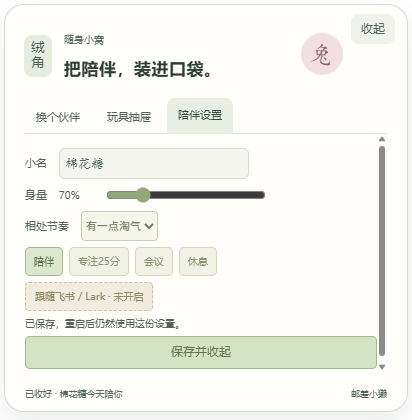
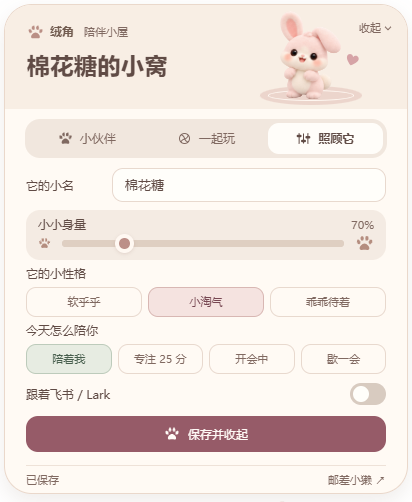
Redesign desktop nest as a soft plush nursery

diff --git a/ui/desktop-nest.css b/ui/desktop-nest.css
@@ -1,18 +1,49 @@
-:root{--nest-paper:#fffdf7;--nest-ink:#354b49;--nest-mint:#bfd8c8;--nest-pink:#d79e94;--desktop-size:.60}html,body{background:transparent!important;width:440px;height:650px;overflow:hidden;margin:0;color:var(--nest-ink);font-family:"Microsoft YaHei UI",sans-serif}.app-header,.page-intro,footer,.mobile-actions,.theater-top,.pet-shadow,.stage-orbit,.touch-hint{display:none!important}main{padding:0;margin:0;max-width:none}.experience{display:block}.theater{position:absolute;inset:0;width:440px;height:650px;border-radius:0;background:transparent!important;box-shadow:none;overflow:visible}.stage{position:absolute;inset:0;width:440px;height:650px;background:transparent}.pet-anchor{position:absolute;left:auto;right:36px;bottom:32px;width:174px;height:174px;transform:scale(var(--desktop-size));transform-origin:50% 100%}.pet,.pet-aim{width:100%;height:100%}.pet{filter:drop-shadow(0 3px 2px #23322e15);border-radius:30%;outline-offset:0!important}.portrait{mask-image:none}.art{overflow:hidden}.speech{left:auto;right:24px;top:auto;bottom:216px;transform:none;max-width:238px;padding:11px 15px;font-size:12px;line-height:1.75;border-radius:17px 17px 4px 17px;background:var(--nest-paper);border:1px solid #c4d1c5;box-shadow:3px 4px 0 #cbd9ce60;opacity:0;pointer-events:none;transition:opacity 140ms cubic-bezier(.22,1,.36,1);z-index:12}.speech::after{display:none}.desktop-nest[data-hint=true] .speech{opacity:1;pointer-events:auto}.sleep-mark{left:auto;right:29px;top:auto;bottom:166px;font-size:13px;letter-spacing:3px;color:#a6b9be}.effects{position:absolute;inset:auto 0 40px auto;width:224px;height:180px}.effect{width:14px;height:14px}.classic-art .pet-surface{width:100%;height:100%;border:0;background:none}.classic-art svg{width:100%;height:100%}#drag-tag{position:absolute;right:78px;bottom:10px;font-size:10px;line-height:1.4;padding:4px 11px;background:#fffdf5e8;border:1px dashed #c5d1bd;border-radius:4px 4px 9px 9px;letter-spacing:.5px;-webkit-app-region:drag;cursor:move;max-width:200px;overflow:hidden;text-overflow:ellipsis;white-space:nowrap}#nest-toggle{position:absolute;right:21px;bottom:9px;width:48px;height:37px;display:flex;align-items:center;justify-content:center;gap:3px;border-radius:6px 6px 13px 5px;border:1px solid #9eb8a8;background:#cfe1d0;box-shadow:2px 2px 0 #4b6b5412;font-size:10px;color:#3e6453;transform:rotate(-6deg);z-index:15}#nest-toggle:hover{transform:rotate(0) translateY(-2px)}#nest-toggle b{font-size:17px;font-weight:500}#nest-sheet{position:absolute;left:18px;right:18px;top:18px;height:408px;background:var(--nest-paper);border:1px solid #bdcbbb;border-radius:11px 11px 27px 11px;box-shadow:5px 6px 0 #a5beaa75,0 14px 26px #26372d13;z-index:20;overflow:visible;isolation:isolate}#nest-sheet::before{content:"";position:absolute;left:14px;right:14px;top:8px;bottom:8px;border:1px dashed #d4ddcf;border-radius:6px 6px 19px 6px;pointer-events:none;z-index:-1}.nest-cover{height:93px;padding:20px 19px 12px;display:flex;align-items:center;gap:12px;background:repeating-linear-gradient(0deg,transparent 0,transparent 5px,#99ac8e05 5px,#99ac8e05 6px)}.nest-mark{writing-mode:vertical-rl;border:1px solid #9ab29b;padding:6px 3px;border-radius:3px;color:#738d70;font-size:13px;letter-spacing:2px;background:#f0f1e5}.nest-cover small{font-size:10px;letter-spacing:3px;color:#8a9b80}.nest-cover h2{font-size:18px;letter-spacing:.5px;font-weight:600;margin:4px 0 0;font-family:"KaiTi","STKaiti","Microsoft YaHei UI",sans-serif}.nest-stamp{position:absolute;right:43px;top:28px;display:grid;place-items:center;width:42px;height:42px;border:2px double #bc8b82;border-radius:50%;transform:rotate(13deg);font-family:"KaiTi",serif;font-size:24px;color:#bc8b82;opacity:.9}.nest-stamp::after{content:"随身";font-family:inherit;font-size:8px;position:absolute;bottom:-7px;background:var(--nest-paper);padding:0 4px;letter-spacing:1px}.nest-cover>button{position:absolute;right:12px;top:9px;min-width:30px;height:30px;padding:0;border:0;background:none;color:#71866c;font-size:23px}.nest-tabs{display:flex;gap:5px;margin:0 20px;border-bottom:1px solid #b9cbb6;height:36px;align-items:end}.nest-tabs button{font-size:11px;min-height:33px;padding:6px 11px;background:#e7eddd;border:1px solid #c3d0ba;border-bottom:0;border-radius:6px 6px 0 0;color:#7b8e74;transform:translateY(1px)}.nest-tabs button:nth-child(2){background:#f1e4cf;color:#9a8362}.nest-tabs button:nth-child(3){background:#efded6;color:#9c7b72}.nest-tabs button[aria-selected=true]{background:var(--nest-paper);color:var(--nest-ink);padding-bottom:8px;min-height:36px}.nest-tabs button:active{transform:translateY(1px)}#nest-body{height:238px;margin:0 20px;overflow-y:auto;scrollbar-width:thin;padding:12px 0 5px}.friends{padding:0;width:100%}.friends-title,.picker-hint{display:none}.cast{display:grid!important;grid-template-columns:repeat(6,minmax(0,1fr));gap:7px 3px;overflow:visible;padding:0}.friend{border:0;background:none;padding:4px 2px 5px;min-width:0;border-radius:7px;position:relative;gap:2px}.friend:nth-child(2n){transform:rotate(2deg)}.friend:nth-child(3n){transform:rotate(-2deg)}.friend::before{content:"";position:absolute;top:0;left:3px;right:3px;bottom:0;background:#f6f2e5;border:1px solid #d7decb;box-shadow:1px 2px 0 #c9d2ba3b;z-index:-1;border-radius:7px 7px 3px 3px}.friend[aria-pressed=true]{box-shadow:none;background:none;border:0;transform:translateY(-3px) rotate(-3deg)}.friend[aria-pressed=true]::before{background:#e2eddc;border-color:#8da47c}.friend[aria-pressed=true]::after{right:4px;top:2px;width:4px;height:4px;background:#bd9284}.friend .thumb{width:40px;height:40px;mask-image:none}.friend b{font-size:10px;font-weight:500}.friend small{display:none}.companion-panel{display:block;width:100%;padding:10px 0 0;border-top:1px dashed #ced7c4;margin-top:10px}.companion-panel .species,.companion-panel>.personality,.memory,.details-toggle,#design-details{display:none!important}.companion-panel h2{font-size:16px;display:inline;line-height:1.5;font-family:"KaiTi","STKaiti",sans-serif;letter-spacing:.5px}.companion-panel>.trait{font-size:10px;margin:0 0 9px 8px;display:inline;color:#8a977c}.actions{display:flex;flex-direction:row;gap:6px;margin-top:8px}.actions button{flex:1;min-width:0;min-height:42px;border-radius:6px;padding:6px 3px;font-size:10px;gap:4px;display:flex;flex-direction:column;justify-content:center;align-items:center;text-align:center;background:#fffdf7;border:1px solid #d7ddca;box-shadow:none;color:#546b52}.actions button svg{width:16px;height:16px;color:#91a17e}.actions .primary{background:#e2eddb;border:1px solid #b6c9a7;color:#486143;box-shadow:0 2px 0 #c5d2b6}.actions .primary svg{color:#6f8b61}.nest-foot{position:absolute;left:20px;right:20px;bottom:10px;border-top:1px dashed #d5dec9;padding-top:7px;display:flex;justify-content:space-between;gap:8px;font-size:9px;color:#91a184}.nest-foot button{background:none;border:0;color:#8c9d7d;font-size:9px;padding:0}.play-tray{margin:0;min-height:0;padding:4px 0;background:none;border:0;border-radius:0}.tray-empty{grid-template-columns:42px 1fr;min-height:122px}.tray-icon{border-radius:7px;border:1px dashed #b5c6a9;background:#eef1e4;color:#92a47e}.tray-empty p,.game-instruction{font-size:11px;color:#809174}.tray-empty button{color:#789464;font-size:12px}.game-heading b{font-size:12px}.game-area{min-height:74px;margin-top:12px}.toy-button{background:#fcfbf3;border:1px solid #cbd8bb;border-radius:9px;box-shadow:2px 3px 0 #d5dfc4;color:#82976e}.toy-wide{min-height:45px;font-size:12px}.toy-button:hover{background:#eef1e3}.game-help{font-size:10px;color:#98a88a}.step-dot.done{background:#91a47c}.game-range{accent-color:#8ba074}.game-complete{display:flex;flex-direction:column;align-items:center;justify-content:center;min-height:157px}.game-complete button{background:#bacda5;border-radius:7px;color:#4b6342}.game-complete p{font-size:12px;text-align:center;color:#718869}#native-settings{padding:2px 0;font-size:11px}#native-settings label{display:flex;align-items:center;gap:12px;margin:0 0 10px;color:#809171}#native-name{width:190px;height:31px;border:0;border-bottom:1px solid #c7d3b9;background:repeating-linear-gradient(90deg,#eef1e4 0,#eef1e4 1px,transparent 1px,transparent 22px);padding:5px;color:#4c6348;font:13px "KaiTi",sans-serif}#native-personality{min-height:30px;border:1px solid #c5d0b8;background:#f7f6eb;border-radius:4px;color:#6c805e;font-size:11px}#native-size{width:160px;accent-color:#90a878}#native-size-label{font-size:10px;width:33px}.work-tabs{display:flex;gap:6px;margin:10px 0}.work-tabs button{min-height:29px;background:#f1f1e5;border:1px solid #d1d8bd;border-radius:5px;font-size:10px;color:#849470;padding:5px 8px}.work-tabs button[aria-pressed=true]{background:#dce7cd;border-color:#a2b98e;color:#557247}#native-follow{font-size:10px;padding:5px 9px;background:#f2ece0;border:1px dashed #ccbd9e;color:#968565;border-radius:4px}#native-save{display:block;margin-top:8px;min-height:33px;border:1px solid #a2b88d;background:#d4e3c3;color:#5b754d;border-radius:5px;font-size:12px;width:100%}#native-status{font-size:10px;color:#94a285;margin:5px 0;line-height:1.5}#nest-toggle:focus-visible,#nest-close:focus-visible,.friend:focus-visible{outline:2px solid #819b71;outline-offset:3px}body.desktop-preview{background:radial-gradient(circle at 80% 88%,#d8e4da 0,transparent 38%),repeating-linear-gradient(0deg,#e8ece6 0,#e8ece6 1px,#edf0e9 1px,#edf0e9 32px)!important}.desktop-preview::before{content:"这是桌面小窝的实尺寸预览";position:absolute;top:7px;left:20px;font-size:10px;color:#9ba991}.desktop-preview .theater{position:absolute}body[data-drawer=toys] #nest-sheet .companion-panel{display:none}body[data-drawer=friends] #nest-sheet .play-tray{display:none}@media(prefers-reduced-motion:reduce){*,*::before,*::after{animation:none!important;transition:none!important}}
+/* MofuCorner — a small nursery for a real plush companion.
+   Fixed native canvas: 440 × 650. Sheet: 404 wide; inner grid: 360 = 4×84 + 3×8. */
+:root{--nest-paper:#fffaf4;--nest-ink:#604b45;--nest-muted:#806961;--nest-line:#e8d9ce;--nest-soft:#f7eee6;--nest-pink:#f3dedc;--nest-rose:#965b68;--nest-green:#5d7663;--desktop-size:.60;--nest-font:"Microsoft YaHei UI","PingFang SC",sans-serif}
+body{position:relative}html,body{background:transparent!important;width:440px;height:650px;overflow:hidden;margin:0;color:var(--nest-ink);font-family:var(--nest-font)}
+.desktop-nest *{box-sizing:border-box}.desktop-nest [hidden]{display:none!important}
+.app-header,.page-intro,footer,.mobile-actions,.theater-top,.pet-shadow,.stage-orbit,.touch-hint{display:none!important}
+main{padding:0;margin:0;max-width:none}.experience{display:block}.theater{position:absolute;inset:0;width:440px;height:650px;border-radius:0;background:transparent!important;box-shadow:none;overflow:visible}.stage{position:absolute;inset:0;width:440px;height:650px;background:transparent}
+.pet-anchor{position:absolute;left:auto;right:36px;bottom:32px;width:174px;height:174px;transform:scale(var(--desktop-size));transform-origin:50% 100%}.pet,.pet-aim{width:100%;height:100%}.pet{filter:drop-shadow(0 3px 2px #604b4512);border-radius:30%;outline-offset:0!important}.pet:focus:not(:focus-visible){outline:none}.portrait{mask-image:none}.art{overflow:hidden}.desktop-nest .rig-puppet{overflow:visible}.desktop-nest .art img{filter:url(#desktop-alpha-clean)}.classic-art .pet-surface{width:100%;height:100%;border:0;background:none}.classic-art svg{width:100%;height:100%}
+.speech{position:absolute;left:auto;right:42px;top:auto;bottom:calc(42px + 174px * var(--desktop-size));width:120px;max-width:120px;max-height:96px;padding:7px 9px;font-size:11px;line-height:1.55;transform:none;border-radius:14px 14px 5px 14px;background:var(--nest-paper);border:1px solid var(--nest-line);box-shadow:0 3px 12px #604b4510;opacity:0;pointer-events:none;transition:opacity 140ms ease;z-index:12;overflow:hidden}.speech::after{display:none}.desktop-nest[data-hint=true] .speech{opacity:1;pointer-events:auto}.desktop-nest[data-dock=bottom] .speech{display:none}.sleep-mark{left:auto;right:29px;top:auto;bottom:166px;font-size:13px;color:var(--nest-muted)}.effects{position:absolute;inset:auto 0 40px auto;width:224px;height:180px}.effect{width:14px;height:14px}
+#drag-tag{position:absolute;right:84px;bottom:10px;width:100px;max-width:100px;padding:3px 6px;font-size:11px;line-height:1.4;background:var(--nest-paper);border:1px solid var(--nest-line);border-radius:9px;color:var(--nest-muted);-webkit-app-region:drag;cursor:move;overflow:hidden;text-overflow:ellipsis;white-space:nowrap}
+#nest-toggle{position:absolute;right:40px;bottom:10px;width:36px;height:30px;display:grid;place-items:center;border:1px solid #dec1bd;background:var(--nest-pink);color:var(--nest-ink);border-radius:11px;font-size:11px;transform:none;z-index:15;box-shadow:none}#nest-toggle b{display:none}#nest-toggle:hover{background:#ecd0ce;transform:none}
+/* The sheet floats; its shallow shadow separates it from other applications. */
+#nest-sheet{position:absolute;left:18px;right:18px;top:18px;height:490px;z-index:20;display:flex;flex-direction:column;background:var(--nest-paper);border:1px solid #ead8cb;border-radius:28px;box-shadow:0 8px 22px #6b4f391b;overflow:hidden;isolation:isolate}
+.nest-cover{height:104px;flex:none;position:relative;padding:17px 22px 10px;background:#f8eee4}
+.nest-heading{position:relative;z-index:1;max-width:232px;pointer-events:none}.nest-brand{display:flex;align-items:center;gap:6px;margin:0 0 8px;font-size:12px;font-weight:600;color:#725c50}.nest-brand span{font-size:11px;font-weight:400;margin-left:4px;color:var(--nest-muted)}.nest-brand svg{width:17px;height:17px;fill:#ba8f85;stroke:none}.nest-heading h1{margin:0;max-width:215px;font:700 23px/1.35 var(--nest-font);color:var(--nest-ink);letter-spacing:.5px;overflow:hidden;text-overflow:ellipsis;white-space:nowrap}.nest-heading>p:last-child{font-size:11px;line-height:1.6;margin:7px 0 0;color:var(--nest-muted)}
+#nest-close{position:absolute;right:12px;top:10px;padding:0 6px;display:flex;align-items:center;gap:2px;height:26px;background:transparent;border:0;border-radius:8px;color:var(--nest-muted);font:11px var(--nest-font);z-index:4}#nest-close svg{width:14px;height:14px;fill:none;stroke:currentColor;stroke-width:1.7;stroke-linecap:round;stroke-linejoin:round}#nest-close:hover{background:#eee0d4}
+.nest-baby{position:absolute;right:25px;bottom:4px;width:119px;height:91px;display:grid;place-items:center;border:0;background:transparent;padding:0;z-index:2;border-radius:24px;cursor:pointer}.baby-mat{position:absolute;bottom:0;width:102px;height:19px;border-radius:50%;background:#ecd5cc}.baby-mat::after{content:"";position:absolute;inset:4px 8px;border:1px solid #fff8f2;border-radius:50%}.baby-portrait{position:absolute;bottom:5px;max-height:89px;height:89px;max-width:105px;overflow:hidden;transition:transform 170ms ease;filter:url(#desktop-alpha-clean)}.nest-baby:hover .baby-portrait{transform:rotate(-4deg) translateY(-2px)}.nest-baby:active .baby-portrait{transform:translateY(1px)}.baby-heart{position:absolute;right:0;top:38px;transform:rotate(17deg)}.baby-heart svg{width:16px;height:16px;fill:#d6a3a6;stroke:none}.nest-symbols{position:absolute;pointer-events:none}
+.nest-tabs{flex:none;display:grid;grid-template-columns:repeat(3,1fr);gap:4px;padding:4px;margin:10px 20px 0;background:#f1e7de;border:0;border-radius:15px;height:39px}.nest-tabs button{display:flex;align-items:center;justify-content:center;gap:7px;border:0;border-radius:11px;background:transparent;font:12px var(--nest-font);color:var(--nest-muted);padding:0;min-height:31px;transform:none}.nest-tabs svg{width:15px;height:15px;fill:none;stroke:currentColor;stroke-width:1.6;stroke-linecap:round;stroke-linejoin:round}.nest-tabs button:first-child svg{fill:currentColor;stroke:none}.nest-tabs button[aria-selected=true]{background:#fffdf9;color:var(--nest-ink);box-shadow:none;font-weight:600}.nest-tabs button:hover{color:var(--nest-ink)}
+#nest-body{flex:1;min-height:0;margin:0 20px;padding:10px 1px 6px;overflow-x:hidden;overflow-y:auto;scrollbar-width:thin;scrollbar-color:#d5c2b6 transparent}#nest-body::-webkit-scrollbar{width:4px}#nest-body::-webkit-scrollbar-thumb{background:#d5c2b6;border-radius:9px}
+.nest-foot{flex:none;margin:0 21px;padding:7px 0 8px;display:flex;align-items:center;justify-content:space-between;gap:8px;color:var(--nest-muted);font-size:11px;min-height:28px;border-top:1px solid #eee2d8}.nest-foot>span{overflow:hidden;text-overflow:ellipsis;white-space:nowrap}.nest-foot button{background:none;border:0;color:var(--nest-muted);font:11px var(--nest-font);padding:0;white-space:nowrap}.nest-foot button:hover{color:var(--nest-rose)}
+/* Twelve actual pets, large enough to recognise; 4 × 3, never miniature postage stamps. */
+.friends{padding:0;width:100%}.friends-title,.picker-hint{display:none}.cast{display:grid!important;grid-template-columns:repeat(4,minmax(0,1fr));gap:8px;overflow:visible;padding:0}.friend,.friend:nth-child(2n),.friend:nth-child(3n){display:flex;flex-direction:column;align-items:center;gap:1px;min-width:0;padding:4px 2px 6px;background:#f7efe7;border:1px solid transparent;border-radius:16px;transform:none;box-shadow:none;isolation:isolate}.friend::before{display:none}.friend[aria-pressed=true]{background:#f7e5e2;border-color:#d9b5b3;box-shadow:none;transform:none}.friend[aria-pressed=true]::after{content:"";position:absolute;right:7px;top:8px;width:6px;height:6px;background:var(--nest-rose);border-radius:50%}.friend:hover{background:#f1e5dc}.friend .thumb{width:58px;height:55px;mask-image:none;display:block}.friend b{font-size:11px;line-height:1.4;color:var(--nest-ink);font-weight:500}.friend small{display:none}
+.companion-panel{display:block;width:100%;padding:13px 0 0;margin-top:10px;border-top:1px solid var(--nest-line);border-radius:0;background:none}.companion-panel .species,.companion-panel>.personality,.memory,.details-toggle,#design-details{display:none!important}.companion-panel h2{font:600 14px/1.5 var(--nest-font);display:inline;letter-spacing:0;color:var(--nest-ink)}.companion-panel>.trait{display:inline;font-size:11px;margin:0 0 0 8px;color:var(--nest-muted)}.actions{display:flex;gap:7px;margin-top:10px}.actions button{flex:1;display:flex;flex-direction:column;justify-content:center;align-items:center;gap:4px;min-width:0;min-height:45px;padding:7px 3px;border-radius:13px;font:11px var(--nest-font);text-align:center;background:#f5eee7;border:0;box-shadow:none;color:var(--nest-ink)}.actions button svg{width:18px;height:18px;color:var(--nest-rose)}.actions .primary{background:var(--nest-pink);color:#724650;border:0;box-shadow:none}.actions .primary svg{color:#965b68}.actions button:hover{background:#ecdcd4}
+/* Care controls fit in one view. Each setting remains a real form control. */
+#native-settings{padding:0;font:12px var(--nest-font);color:var(--nest-ink)}#native-settings label{color:var(--nest-ink);font-size:12px}.name-row{display:flex;align-items:center;gap:16px;margin-bottom:8px}.name-row label{white-space:nowrap;width:70px}#native-name{flex:1;width:0;height:34px;border:1px solid var(--nest-line);border-radius:11px;background:#fffefa;padding:0 12px;color:var(--nest-ink);font:13px var(--nest-font)}
+.size-setting{padding:7px 12px 5px;background:#f4ebe3;border-radius:14px;margin-bottom:6px}.setting-heading{display:flex;align-items:center;justify-content:space-between}.setting-heading output{font-size:11px;color:var(--nest-muted);font-variant-numeric:tabular-nums}.size-track{display:flex;align-items:center;gap:11px;height:23px}.size-paw{width:19px;height:19px;fill:#b48d7f;stroke:none}.size-paw.small{width:13px;height:13px}#native-size{--size-fill:6.66%;appearance:none;flex:1;min-width:0;margin:0;height:7px;border:0;border-radius:8px;background:#dfcfc2;outline-offset:8px}#native-size::-webkit-slider-runnable-track{height:7px;border-radius:8px;background:#dfcfc2}#native-size::-webkit-slider-thumb{appearance:none;width:19px;height:19px;margin-top:-6px;border:4px solid #fff8f2;border-radius:50%;background:#bc8f88;box-shadow:0 1px 4px #7c4e4533;cursor:grab}#native-size::-moz-range-thumb{width:12px;height:12px;border:4px solid #fff8f2;border-radius:50%;background:#bc8f88}
+#native-settings fieldset{border:0;min-width:0;padding:0;margin:0 0 6px}#native-settings legend{font-size:12px;padding:0;margin-bottom:6px;color:var(--nest-ink)}.personality-options,.work-tabs{display:flex;gap:6px}.personality-options button,.work-tabs button{flex:1;min-width:0;height:30px;border:1px solid var(--nest-line);border-radius:10px;background:transparent;color:var(--nest-muted);font:11px var(--nest-font);padding:0 6px;white-space:nowrap}.personality-options button[aria-pressed=true]{background:#f5e3e0;border-color:#d8b7b3;color:#774752}.work-tabs button[aria-pressed=true]{background:#e7ece2;border-color:#bdcbbb;color:#485f4e}.personality-options button:hover,.work-tabs button:hover{border-color:#b79889}
+.follow-setting{display:flex;justify-content:space-between;align-items:center;gap:10px;margin:3px 0 6px}.follow-setting>span{min-width:0}.follow-setting b{font-size:12px;font-weight:500}.follow-setting small{display:block;font-size:11px;line-height:1.45;color:var(--nest-muted);margin:3px 0 0;max-width:278px}#native-follow{flex:none;position:relative;width:36px;height:22px;border:0;border-radius:20px;background:#d8cbc0;padding:3px;cursor:pointer}#native-follow .switch-knob{display:block;width:16px;height:16px;border-radius:50%;background:#fffefa;transition:transform 160ms ease}#native-follow[aria-pressed=true]{background:var(--nest-green)}#native-follow[aria-pressed=true] .switch-knob{transform:translateX(14px)}#native-follow:disabled{cursor:not-allowed;background:#d8cbc0}
+#native-save{display:flex;align-items:center;justify-content:center;gap:8px;width:100%;min-height:36px;margin:0;border:0;border-radius:12px;background:var(--nest-rose);color:#fffaf6;font:12px var(--nest-font);box-shadow:none}#native-save svg{width:16px;height:16px;fill:currentColor;stroke:none}#native-save:hover{background:#844c5a}#native-save:disabled{background:#ead8d9;color:#765960;cursor:wait}
+/* The toy drawer keeps the same nursery materials. */
+.play-tray{margin:0;min-height:0;padding:4px 0;background:none;border:0;border-radius:0}.tray-empty{grid-template-columns:42px 1fr;min-height:115px}.tray-icon{border-radius:14px;border:0;background:#f5e7de;color:var(--nest-rose)}.tray-empty p,.game-instruction{font-size:12px;color:var(--nest-muted);line-height:1.6}.tray-empty button{color:var(--nest-rose);font-size:12px}.game-heading b{font-size:14px;color:var(--nest-ink)}.game-area{min-height:65px;margin-top:12px}.toy-button{background:#f5e9df;border:1px solid #e6d2c5;border-radius:16px;box-shadow:none;color:#886358}.toy-wide{min-height:45px;font-size:12px}.toy-button:hover{background:#f0ded2}.game-help{font-size:11px;color:var(--nest-muted)}.step-dot{background:#e6d8cd}.step-dot.done{background:#bc8c86}.game-range{accent-color:var(--nest-rose)}.game-complete{display:flex;flex-direction:column;align-items:center;justify-content:center;min-height:157px}.game-complete button{background:var(--nest-pink);border-radius:12px;color:#714650}.game-complete p{font-size:12px;text-align:center;color:var(--nest-muted)}.desktop-nest .motion-actions{padding:12px 0 2px;margin-top:12px;border-top:1px solid var(--nest-line);gap:6px;display:flex;flex-wrap:wrap}.desktop-nest .motion-actions>span{font-size:11px;width:100%;margin:0 0 2px;color:var(--nest-muted)}.desktop-nest .motion-actions button{min-height:32px;padding:5px 10px;background:#f5ece4;border:1px solid var(--nest-line);font-size:11px;border-radius:10px;color:var(--nest-ink)}
+.desktop-nest button{transition:background-color 150ms ease,border-color 150ms ease}.desktop-nest button:focus-visible,.desktop-nest input:focus-visible{outline:2px solid var(--nest-rose);outline-offset:3px}.desktop-nest button:active:not(#pet):not(#nest-baby){translate:0 1px}
+body.desktop-preview{background:#eee8e1!important}.desktop-preview::before{display:none}.desktop-preview .theater{position:absolute}
+@media(max-width:439px){body.desktop-preview,html:has(body.desktop-preview){width:100vw}.desktop-preview #nest-sheet{left:12px;right:12px}.desktop-preview .nest-heading{max-width:200px}.desktop-preview .nest-heading h1{font-size:21px;max-width:190px}.desktop-preview .nest-baby{right:17px;width:105px}.desktop-preview .nest-cover{padding-left:20px}.desktop-preview .nest-tabs,.desktop-preview #nest-body{margin-left:16px;margin-right:16px}}
+@media(prefers-reduced-motion:reduce){*,*::before,*::after{animation:none!important;transition:none!important}}
 
-/* Runtime alpha compositing suppresses almost-transparent generation fringe. */
-#native-settings label{margin-bottom:6px}.work-tabs{margin:6px 0}#native-save{margin-top:5px}#native-settings label,#native-status{color:#526657}
-.desktop-nest .art img{filter:url(#desktop-alpha-clean)}#nest-body{overflow-x:hidden}.desktop-nest .friend .thumb{width:34px;height:34px}.desktop-nest .friend b{line-height:1.35}.desktop-nest .friend{padding:3px 2px 4px}.desktop-nest .cast{gap:5px 3px}
+/* The header already names the selected pet, so the picker gives its space to play. */
+.companion-panel h2,.companion-panel>.trait{display:none}.companion-panel{padding:0;margin-top:10px;border:0}.actions{margin-top:0}
 
-.desktop-nest .motion-actions{padding:7px 0 1px;border-top:1px dashed #d0d9c3;gap:5px}.desktop-nest .motion-actions>span{font-size:9px;width:100%;margin:0}.desktop-nest .motion-actions button{min-height:28px;padding:4px 7px;background:#eef0e2;border-color:#c8d4b7;font-size:10px;border-radius:5px}.desktop-nest .rig-puppet{overflow:visible}.desktop-nest .play-tray:has(.game-area){padding-bottom:0}.desktop-nest .game-area{margin-top:4px;min-height:51px}
+html:has(body.desktop-preview){width:100%;height:100%;background:#eee8e1!important}body.desktop-preview{width:min(440px,100vw);margin:16px auto;position:relative}
 
-/* Compact companion; visible bounds are measured and docked outside the client. */
-#drag-tag{right:84px;width:100px;max-width:100px;padding:3px 6px;font-size:9px}
-#nest-toggle{right:40px;bottom:10px;width:36px;height:30px;transform:none;border-radius:9px;font-size:10px}#nest-toggle b{display:none}#nest-toggle:hover{transform:none}
-.desktop-nest .speech{right:42px;bottom:calc(42px + 174px * var(--desktop-size));width:120px;max-width:120px;max-height:96px;padding:7px 9px;font-size:10px;line-height:1.55;overflow:hidden}
-.desktop-nest[data-dock=bottom] .speech{display:none}
+/* All twelve portraits and three quick actions fit without a scroll at native size. */
+.actions{flex-direction:row}.friend .thumb{width:54px;height:46px}.friend,.friend:nth-child(2n),.friend:nth-child(3n){padding:3px 2px 4px}.actions button{min-height:42px;padding:4px 3px}.actions button svg{width:16px;height:16px}.companion-panel{margin-top:8px}.nest-baby{right:48px;width:96px}#nest-close{padding:0;gap:0}
 
-/* MofuCorner 0.6 — quiet paper surfaces, one sage action. */
-#nest-sheet{border-color:#d4ddd0;border-radius:20px;background:#fffefa;box-shadow:0 10px 28px #22332918}#nest-sheet::before{display:none}.nest-cover{background:none}.nest-cover h2{font-family:"Microsoft YaHei UI","PingFang SC",sans-serif;font-size:17px;color:#2c3e35}.nest-cover small{letter-spacing:0;color:#596b5c}.nest-mark{border:0;background:#e6ede0;border-radius:8px;color:#405d48}.nest-stamp{background:#f1dcdf;border:0;color:#77525e}.nest-stamp::after{display:none}.nest-tabs{border-color:#dce3d7}.nest-tabs button{background:transparent;border:0;border-radius:8px 8px 0 0;color:#526657}.nest-tabs button:nth-child(2),.nest-tabs button:nth-child(3){background:transparent;color:#526657}.nest-tabs button[aria-selected=true]{background:#e8efe2;color:#2c4d36}.friend,.friend:nth-child(2n),.friend:nth-child(3n),.friend[aria-pressed=true]{transform:none}.friend::before{box-shadow:none;background:#f1f3eb;border-color:transparent;border-radius:10px}.friend[aria-pressed=true]::before{background:#dfebd8;border-color:#adc3a2}.actions button,.toy-button{box-shadow:none;border-color:#d6dfd0;border-radius:10px}.actions .primary{background:#355846;border-color:#355846;color:white;box-shadow:none}.actions .primary svg{color:white}.nest-foot{border-top:0;color:#596b5c}.nest-foot button{color:#526657}#native-name{background:#f4f6ef;border:1px solid #d3dccd;border-radius:6px}.speech{box-shadow:0 3px 12px #23372c12}#drag-tag{border-style:solid;border-color:#d5dfce;background:#fffefa}
+/* Reserve a stable footer even when a save acknowledgement appears. */
+.nest-foot{height:28px;min-height:28px;padding:6px 0;line-height:14px}.follow-setting{min-height:28px;margin:4px 0 8px}.follow-setting small:empty{display:none}
+.state-badge,.friends-title span,#shape{font-size:11px}
 
-#nest-close{width:44px;font-size:12px;line-height:28px;border-radius:8px;background:#eef2e9;color:#526657}.nest-stamp{right:64px}#native-follow[aria-pressed=true]{background:#e5eedf;border-style:solid;border-color:#a6ba99;color:#45603e}.pet:focus:not(:focus-visible){outline:none}
+.game-help:empty{display:none}

diff --git a/ui/desktop.html b/ui/desktop.html
@@ -1,14 +1,41 @@
 <!doctype html><html lang="zh-CN"><head>
 <meta charset="utf-8"><meta name="viewport" content="width=device-width,initial-scale=1"><meta name="color-scheme" content="light">
-<title>绒角 · 随身小窝</title><link rel="stylesheet" href="zodiac.css?v=2"><link rel="stylesheet" href="desktop-nest.css?v=28"><script type="module" src="desktop-nest.mjs?v=28"></script>
+<title>绒角 · 随身小窝</title><link rel="stylesheet" href="zodiac.css?v=2"><link rel="stylesheet" href="desktop-nest.css?v=29"><script type="module" src="desktop-nest.mjs?v=29"></script>
 </head><body class="desktop-nest"><svg width="0" height="0" aria-hidden="true" style="position:absolute"><defs><filter id="desktop-alpha-clean" color-interpolation-filters="sRGB"><feComponentTransfer><feFuncA type="table" tableValues="0 0 .35 .7 1 1"/></feComponentTransfer></filter></defs></svg>
-<header class="app-header"><a class="brand" href="/">绒角 <span>MofuCorner</span></a><span class="header-label">十二生肖陪伴小剧场</span><nav><button id="motion-toggle" type="button" aria-pressed="true">小动作已开启</button><a href="/">回到桌宠小屋</a></nav></header>
-<main><div class="page-intro"><div><p class="intro-kicker">有一点脾气，也有很多可爱。</p><h1>今天，和谁待一会儿？</h1></div><p>摸摸它，陪它玩，或者一起放空。<br>每一个小伙伴，都会用自己的方式回应你。</p></div>
-<div class="experience">
+<button id="motion-toggle" type="button" aria-pressed="true" hidden>小动作已开启</button>
+<main><div class="experience">
 <aside class="friends"><div class="friends-title"><h2>小伙伴们</h2><span>十二只，都不一样</span></div><div id="cast" class="cast" role="group" aria-label="选择生肖小伙伴"></div><p class="picker-hint">用方向键，也可以换一位朋友。</p></aside>
 <section class="theater" aria-label="角色互动舞台"><div class="theater-top"><span id="scene-title"></span><span class="state-badge" id="state-badge">自在陪伴</span></div>
 <div class="stage" id="stage"><div class="stage-orbit" aria-hidden="true"></div><div class="speech" id="speech" role="status" aria-live="polite" aria-atomic="true"></div><div class="pet-anchor"><div class="pet-aim" id="pet-aim"><button id="pet" class="pet" type="button"><span id="portrait" class="portrait"></span></button></div></div><div class="pet-shadow" aria-hidden="true"></div><div id="effects" class="effects" aria-hidden="true"></div><div class="sleep-mark" aria-hidden="true">z z</div><p class="touch-hint" id="touch-hint"></p></div>
 <div class="mobile-actions" aria-label="快速互动"><button type="button" data-quick="touch">摸摸</button><button type="button" data-quick="play">陪它玩</button><button type="button" data-quick="rest">休息</button></div><div class="play-tray" id="play-tray"></div></section>
 <aside class="companion-panel"><span class="species" id="species"></span><h2 id="name"></h2><p class="trait" id="trait"></p><p class="personality" id="personality"></p><div class="actions" aria-label="和小伙伴互动"><button id="touch-action" type="button" class="primary"></button><button id="play-action" type="button"></button><button id="rest-action" type="button"></button></div><div class="memory"><div><span class="memory-icon" aria-hidden="true"></span><b>它记得的小事</b></div><p id="memory-text"></p><span class="memory-count" id="memory-count"></span></div><button id="details-toggle" class="details-toggle" type="button" aria-expanded="false" aria-controls="design-details">看看它的模样与配色 <span aria-hidden="true">＋</span></button><div id="design-details" hidden><p id="shape"></p><div id="palette" class="palette"></div></div></aside>
-</div><footer><p>十二生肖已接入桌面小窝，支持选择、连续动作与本机保存。</p><a href="assets/zodiac-lineup-v1.png" download="paperpal-zodiac-lineup-v1.png">收藏全员形象</a></footer>
-</main><button id="nest-toggle" type="button" aria-expanded="false" aria-controls="nest-sheet"><span>小窝</span><b aria-hidden="true">⌑</b></button><span id="drag-tag">拖动搬家</span><section id="nest-sheet" hidden><div class="nest-cover"><span class="nest-mark">绒角</span><div><small>随身小窝</small><h2>把陪伴，装进口袋。</h2></div><button id="nest-close" aria-label="收起小窝" type="button">收起</button><span class="nest-stamp" id="nest-stamp">龙</span></div><nav class="nest-tabs" aria-label="小窝抽屉"><button data-drawer="friends" type="button" aria-selected="true">换个伙伴</button><button data-drawer="toys" type="button" aria-selected="false">玩具抽屉</button><button data-drawer="settings" type="button" aria-selected="false">陪伴设置</button></nav><div id="nest-body"><section id="drawer-friends"></section><section id="drawer-toys" hidden></section><section id="drawer-settings" hidden><form id="native-settings"><label>小名<input id="native-name" maxlength="16" required></label><label>身量 <output id="native-size-label">60%</output><input id="native-size" type="range" min="55" max="130" value="60"></label><label>相处节奏<select id="native-personality"><option value="gentle">温柔陪伴</option><option value="playful">有一点淘气</option><option value="quiet">安静守候</option></select></label><div class="work-tabs" aria-label="办公模式"><button data-work="available" type="button">陪伴</button><button data-work="focus" type="button">专注25分</button><button data-work="meeting" type="button">会议</button><button data-work="rest" type="button">休息</button></div><button id="native-follow" type="button">跟随飞书 / Lark</button><p id="native-status" role="status"></p><button id="native-save" type="submit">保存并收起</button></form></section></div><div class="nest-foot"><span id="native-saved">只在这台电脑，慢慢熟悉。</span><button id="native-classic" type="button">邮差小獭</button></div></section></body></html>
+</div>
+</main><button id="nest-toggle" type="button" aria-expanded="false" aria-controls="nest-sheet"><span>小窝</span><b aria-hidden="true">⌑</b></button><span id="drag-tag">拖动搬家</span><section id="nest-sheet" hidden aria-label="宠物小窝">
+  <div class="nest-cover">
+    <div class="nest-heading"><p class="nest-brand"><svg viewBox="0 0 24 24" aria-hidden="true"><use href="#nest-paw"/></svg>绒角 <span>陪伴小屋</span></p><h1 id="nest-title">小米的小窝</h1><p id="nest-greeting" aria-live="polite"></p></div>
+    <button id="nest-close" aria-label="收起小窝" type="button"><span>收起</span><svg viewBox="0 0 24 24" aria-hidden="true"><path d="m7 10 5 5 5-5"/></svg></button>
+    <button id="nest-baby" class="nest-baby" type="button" aria-label="摸摸小伙伴"><span class="baby-mat"></span><span id="baby-portrait" class="baby-portrait" aria-hidden="true"></span><span class="baby-heart" aria-hidden="true"><svg viewBox="0 0 24 24"><path d="M12 20S3 14 3 8.5C3 3 10 2 12 7c2-5 9-4 9 1.5C21 14 12 20 12 20Z"/></svg></span></button>
+    <span id="nest-stamp" hidden></span>
+  </div>
+  <nav class="nest-tabs" aria-label="小窝抽屉">
+    <button data-drawer="friends" type="button" aria-selected="true"><svg viewBox="0 0 24 24" aria-hidden="true"><use href="#nest-paw"/></svg>小伙伴</button>
+    <button data-drawer="toys" type="button" aria-selected="false"><svg viewBox="0 0 24 24" aria-hidden="true"><circle cx="12" cy="12" r="8"/><path d="M7 6c6 2 4 10 11 12M6 18c2-6 10-4 12-11"/></svg>一起玩</button>
+    <button data-drawer="settings" type="button" aria-selected="false"><svg viewBox="0 0 24 24" aria-hidden="true"><path d="M5 4v16M12 4v16M19 4v16"/><path d="M3 8h4M10 16h4M17 10h4" stroke-width="4"/></svg>照顾它</button>
+  </nav>
+  <div id="nest-body">
+    <section id="drawer-friends"></section><section id="drawer-toys" hidden></section>
+    <section id="drawer-settings" hidden>
+      <form id="native-settings">
+        <div class="name-row"><label for="native-name">它的小名</label><input id="native-name" maxlength="16" required autocomplete="off"></div>
+        <div class="size-setting"><div class="setting-heading"><label for="native-size">小小身量</label><output id="native-size-label" for="native-size">60%</output></div><div class="size-track"><svg class="size-paw small" viewBox="0 0 24 24" aria-hidden="true"><use href="#nest-paw"/></svg><input id="native-size" type="range" min="55" max="130" value="60"><svg class="size-paw" viewBox="0 0 24 24" aria-hidden="true"><use href="#nest-paw"/></svg></div></div>
+        <fieldset class="temper-setting"><legend>它的小性格</legend><select id="native-personality" aria-label="它的小性格" hidden><option value="gentle">温柔陪伴</option><option value="playful">有一点淘气</option><option value="quiet">安静守候</option></select><div class="personality-options"><button type="button" data-personality="gentle" aria-pressed="true">软乎乎</button><button type="button" data-personality="playful" aria-pressed="false">小淘气</button><button type="button" data-personality="quiet" aria-pressed="false">乖乖待着</button></div></fieldset>
+        <fieldset class="mode-setting"><legend>今天怎么陪你</legend><div class="work-tabs" aria-label="办公模式"><button data-work="available" type="button">陪着我</button><button data-work="focus" type="button">专注 25 分</button><button data-work="meeting" type="button">开会中</button><button data-work="rest" type="button">歇一会</button></div></fieldset>
+        <div class="follow-setting"><span><b>跟着飞书 / Lark</b><small id="native-status" role="status"></small></span><button id="native-follow" type="button" aria-pressed="false" aria-label="跟随飞书 / Lark · 未开启"><span class="switch-knob"></span></button></div>
+        <button id="native-save" type="submit"><svg viewBox="0 0 24 24" aria-hidden="true"><use href="#nest-paw"/></svg>保存并收起</button>
+      </form>
+    </section>
+  </div>
+  <div class="nest-foot"><span id="native-saved" role="status"></span><button id="native-classic" type="button">邮差小獭 <span aria-hidden="true">↗</span></button></div>
+</section>
+<svg class="nest-symbols" width="0" height="0" aria-hidden="true"><defs><symbol id="nest-paw" viewBox="0 0 24 24"><path d="M12 12c-3 0-7 4-6 7 1 2 4 1 6 1s5 1 6-1c1-3-3-7-6-7Z"/><ellipse cx="4.5" cy="10" rx="2" ry="2.8" transform="rotate(-25 4.5 10)"/><ellipse cx="9" cy="5.5" rx="2" ry="2.8"/><ellipse cx="15" cy="5.5" rx="2" ry="2.8"/><ellipse cx="19.5" cy="10" rx="2" ry="2.8" transform="rotate(25 19.5 10)"/></symbol></defs></svg>
+</body></html>

diff --git a/README.md b/README.md
@@ -12,7 +12,7 @@
 
 [快速开始](#快速开始) · [看看互动](#摸摸它它会回应) · [桌面小窝](#把伙伴放到桌面上) · [飞书 / Lark](#和飞书--lark-一起使用) · [常见问题](#常见问题)
 
-<img src="design/current/lounge-overview.png" alt="绒角小窝实际运行界面：折耳兔耳朵、五种轻互动与生肖选择" width="1100">
+<img src="design/current/native-partners.png" alt="奶油色桌面小窝：十二生肖伙伴选择" width="380"> <img src="design/current/native-rat-settings.png" alt="小米的照顾设置：昵称、身量、性格与窗口跟随" width="380">
 
 </div>
 
@@ -76,14 +76,14 @@ node setup.mjs
 
 | 互动 | 如何使用 | 伙伴的回应 |
 | --- | --- | --- |
-| 摸摸头 | 点击宠物；预览中也可点“摸摸头” | 小幅靠近、开心眼神与脸颊变化 |
-| 眨眨眼 | 小窝 → 玩具抽屉 → 眨眨眼 | 闭眼，再自然睁开 |
+| 摸摸头 | 点击桌宠或小窝顶部的伙伴；预览中也可点“摸摸头” | 小幅靠近、开心眼神与脸颊变化 |
+| 眨眨眼 | 小窝 → 一起玩 → 眨眨眼 | 闭眼，再自然睁开 |
 | 歪歪头 | 点击“歪歪头” | 头部轻偏，身体与耳朵小幅跟随 |
 | 轻轻跳 | 点击“轻轻跳” | 预备、短暂腾空、落地回稳；小蛇使用开心回应 |
 | 笑一个 | 点击“笑一个” | 弯弯的眼睛与轻微身体回应 |
 | 闲置陪伴 | 保持陪伴模式 | 偶尔看看、眨眼、歪头；节奏受性格影响 |
 | 安静陪伴 | 点击角色面板中的“安静陪伴” | 保持原画安静守候，再点宠物恢复陪伴 |
-| 暂停与慢放 | 预览中可关“自己玩一会”或选 0.6×；桌面专注 / 会议模式会安静下来 | 减少打扰；尊重系统“减少动态”偏好 |
+| 暂停与慢放 | 小窝 → 一起玩 → 小动作已开启可暂停；预览支持 0.6×；专注 / 会议模式会安静下来 | 减少打扰；尊重系统“减少动态”偏好 |
 
 复杂的连续趴下、起身和伸懒腰身体动画尚未开放；小游戏里的“舒展条”是滑动玩法，不表示已实现完整伸懒腰动画。
 
@@ -138,11 +138,11 @@ node setup.mjs
 
 **第一次使用可以这样做：**
 
-1. 在“换个伙伴”中选择生肖，立即保存。
-2. 进入“陪伴设置”，填写 1–16 字小名，选择 **55%–130%** 身量，以及温柔 / 淘气 / 安静三种相处节奏。
+1. 在“小伙伴”中选择生肖，立即保存。
+2. 进入“照顾它”，填写 1–16 字小名，选择 **55%–130%** 身量，以及软乎乎 / 小淘气 / 乖乖待着三种相处节奏。
 3. 点击 **保存并收起**，面板会收起；重启后会恢复设置。
 4. 收起小窝，让它待在桌面角落；拖动宠物下方的名字标签即可搬家。
-5. 需要安静时，在陪伴设置中选择专注、会议或休息。**这些是绒角本地模式，不会改变飞书账号状态。**
+5. 需要安静时，在“照顾它”中选择专注、会议或休息。**这些是绒角本地模式，不会改变飞书账号状态。**
 
 <details>
 <summary>看看会议与休息模式</summary>
@@ -157,7 +157,7 @@ node setup.mjs
 默认先作为独立桌宠运行。想让它贴着客户端窗外陪伴时：
 
 1. 打开飞书或 Lark 桌面客户端。
-2. 从托盘 / 菜单栏选择 **贴在飞书 / Lark 窗口外侧**；也可在“陪伴设置”中点击 **跟随飞书 / Lark · 未开启**，开启后面板自动收起。
+2. 从托盘 / 菜单栏选择 **贴在飞书 / Lark 窗口外侧**；也可在“照顾它”中打开 **跟着飞书 / Lark** 开关，开启后面板自动收起。
 3. 保持客户端处于前台，并给右侧或下方留一点空间。
 
 | 客户端窗口状态 | 宠物的行为 |
@@ -280,7 +280,7 @@ npm run package:source
 ```
 
 - `docs:screenshots` 用临时配置启动隐藏 Electron 窗口，走真实 IPC 与界面操作，生成本文的小窝截图、生肖阵容和动作关键帧；不会修改你的 `.local/`。
-- `package:source` 输出 `dist/mofu-corner-0.6.2-source.zip` 与 SHA-256，不包含依赖、本机数据或历史设计稿。
+- `package:source` 输出 `dist/mofu-corner-0.6.3-source.zip` 与 SHA-256，不包含依赖、本机数据或历史设计稿。
 - 三平台检查与源码包可在 [GitHub Actions](https://github.com/dengjihui1/mofu-corner/actions) 查看。CI 的合成窗口定位不等同于真实飞书客户端人工验收。
 
 | 目录 | 内容 |

diff --git a/CHANGELOG.md b/CHANGELOG.md
@@ -1,5 +1,12 @@
 # Changelog
 
+## 0.6.3
+
+- 将桌面小窝改为奶油色幼宠界面，展示当前伙伴肖像，提供摸摸回应。
+- 十二生肖改为 4×3 伙伴阵列，昵称、性格、身量和办公模式重新分组。
+- 跟随改为明确开关，保留保存自动收起；删除重复标语与说明。
+- 更新原生界面截图和操作说明。
+
 ## 0.6.2
 
 - 保存设置和开启窗口跟随后自动收起小窝，增加明确的收起按钮与跟随开关状态。
